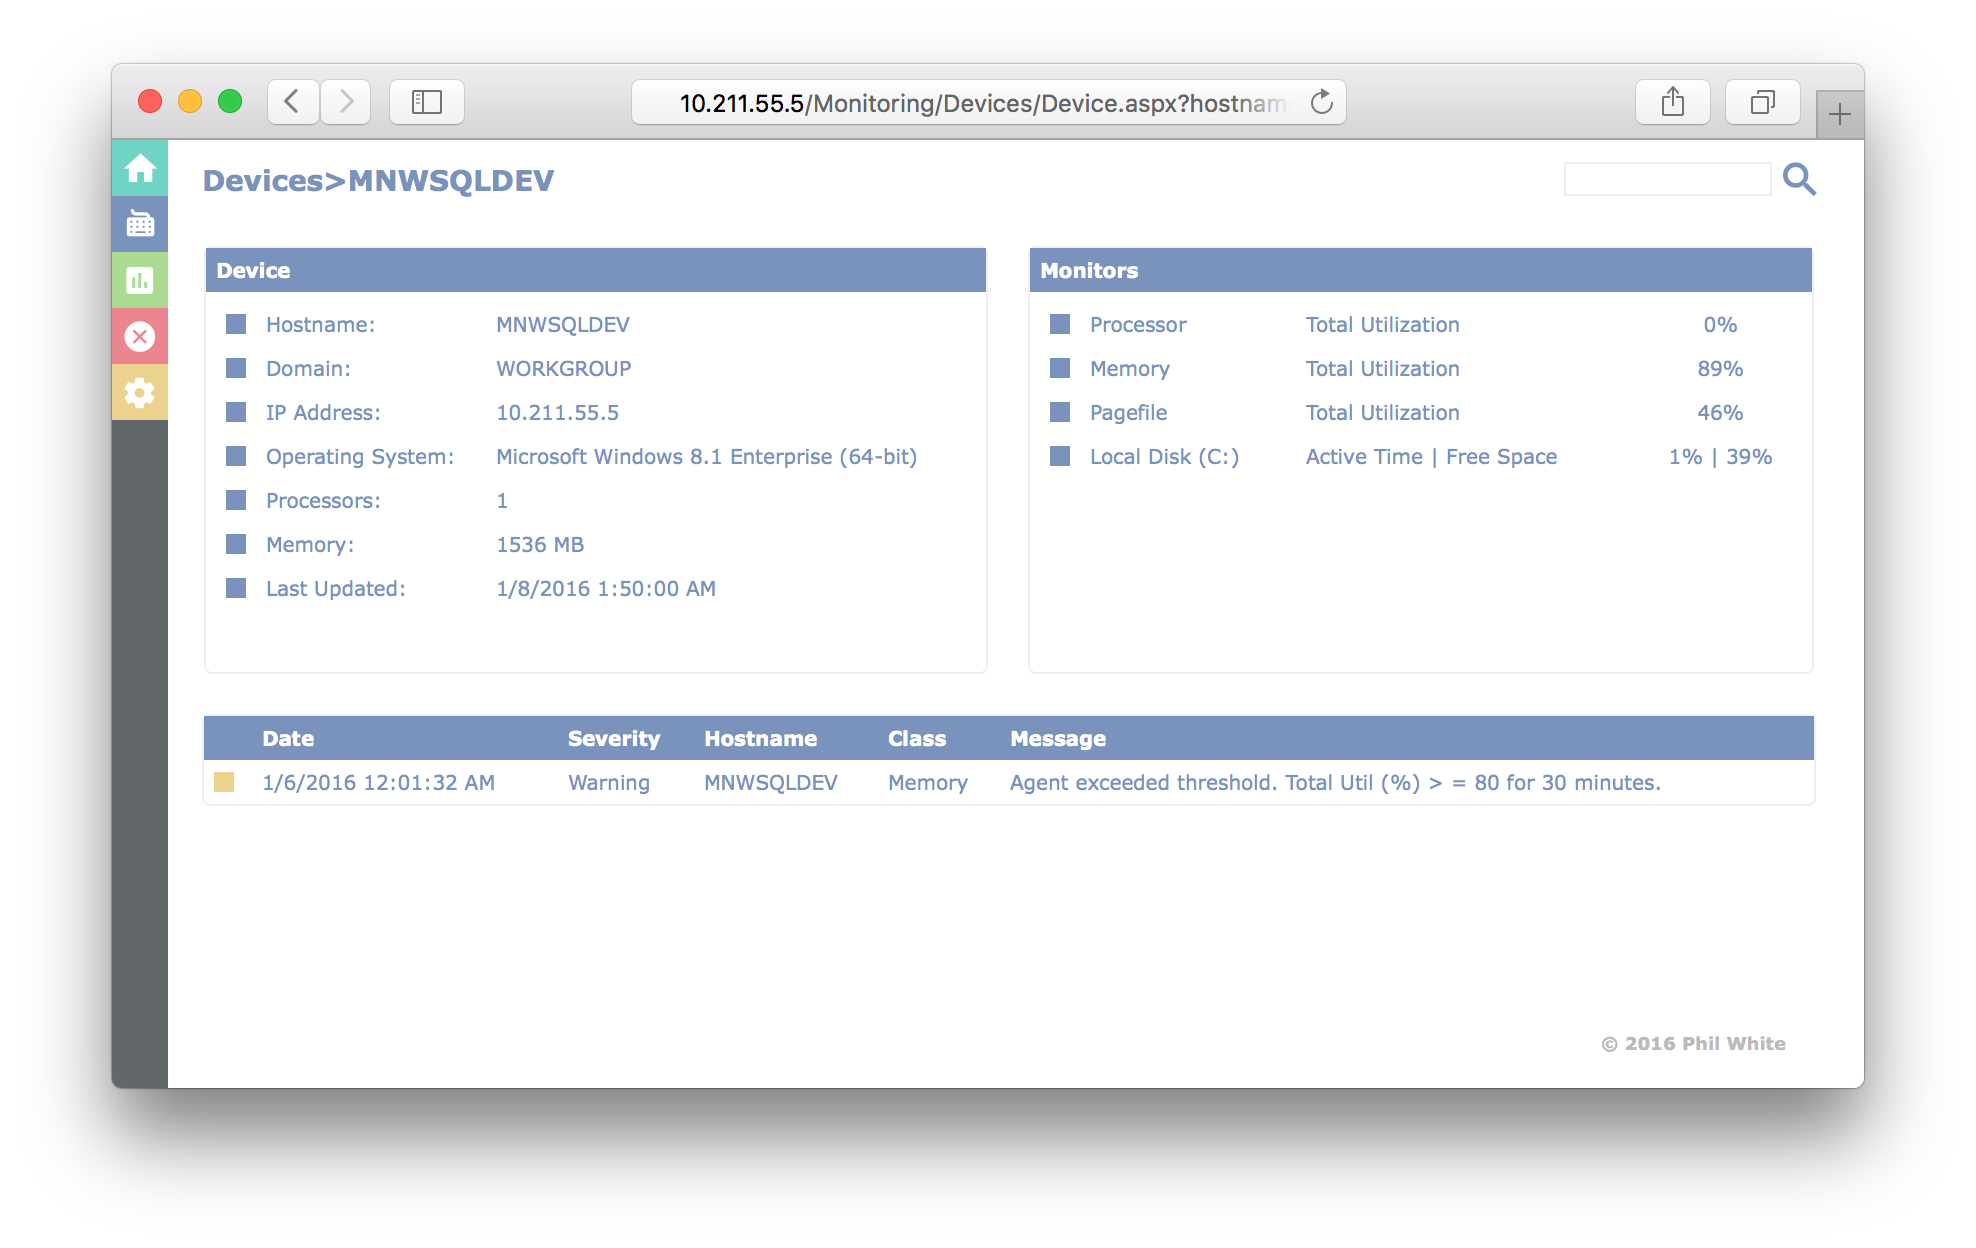
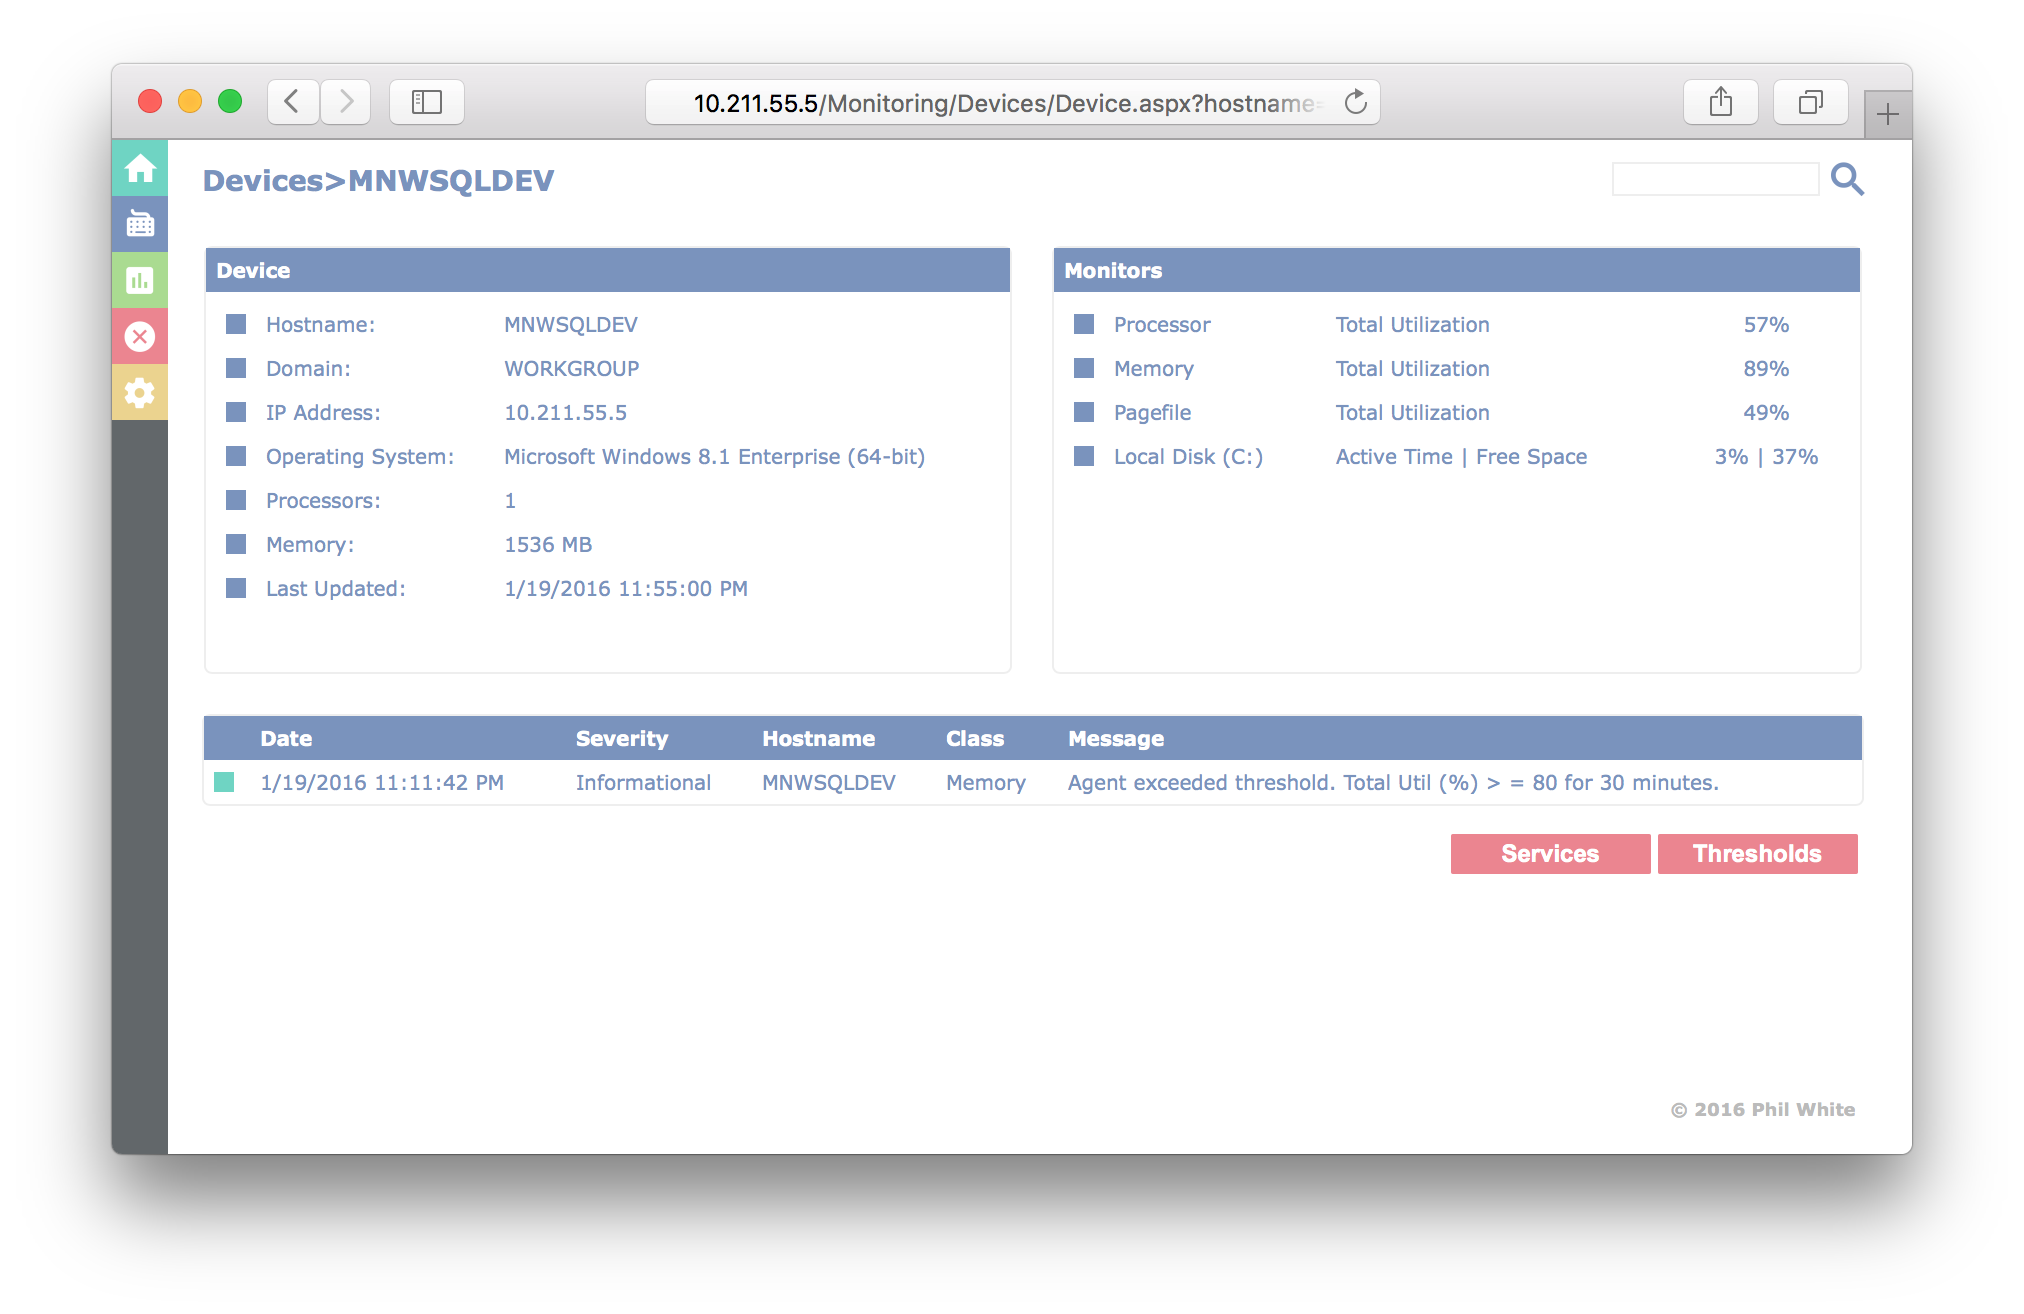
Monitoring Server 2016-01-20
Monitoring Server 2016-01-20

diff --git a/Monitoring/App_Themes/Monitoring/Monitoring.css b/Monitoring/App_Themes/Monitoring/Monitoring.css
@@ -58,7 +58,7 @@ a.NavLinkOptions:hover{width:28px;height:28px;display:block;background-size:28px
 .SearchIcon{height:20px;width:20px;}
 .SearchTextBox{vertical-align:top;margin-top:1px;border-style:solid;border-width:1px;border-color:#eeeeee;width:100px;color:#7992BF;}
 .Main{position:absolute;left:28px;background:#ffffff;width:calc(100% - 67px);padding-left:17px;padding-right:17px;font:10px Verdana, Arial, Helvetica, sans-serif;color:#7992BF;}
-.Footer{position:fixed;left:28px; bottom:0px; width:calc(100% - 67px); height:28px; background:#FFFFFF;font:9px Verdana, Arial, Helvetica, sans-serif;font-weight:bold;color:#bbbbbb;text-align:right;}
+.Footer{position:fixed;left:28px; bottom:0px; width:calc(100% - 50px); height:28px; background:#FFFFFF;font:9px Verdana, Arial, Helvetica, sans-serif;font-weight:bold;color:#bbbbbb;text-align:right;}
 
 
 

diff --git a/README.md b/README.md
@@ -1,4 +1,4 @@
-# MonitoringServer 0.4.9b
+# MonitoringServer 0.5.0b
 
 ##About
 
@@ -25,6 +25,13 @@ For setup and configuration please see the new Wiki
 
 
 ##Change Log
+
+
+###Changes for Version 0.5.0b (2016/01/20):
+
+1.  Added a page to view service status.  Fixed return link on Agent threshold page.
+
+2.  Fixed an issue with the Data Engine not recognizing the time to execute.
 
 
 ###Changes for Version 0.4.9b (2016/01/19):
